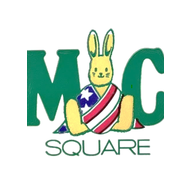
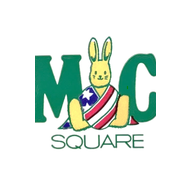
PWA: レビュー対応（遷移のHTMLを保存しない・JS/CSSの事前保存・maskableアイコン縮小など）
- ページ遷移のレスポンスを保存せず、トップページ（/）のHTMLだけをアプリの土台にする
  （レシピ詳細のエッジ関数HTMLが土台になり、オフラインでタイトルがレシピ名になる問題の対策）
- リダイレクトされたレスポンスは保存しない
- asset-manifest.json の JS/CSS をまとめて保存し、未訪問ページのチャンクもオフラインで読めるようにする
- Google Fonts の opaque レスポンスを保存しない
- SW の VERSION を v2 に上げ、使われていない SKIP_WAITING のやり取りを削除
- 片付け用の SW（pwa-killswitch/service-worker.js）を追加
- maskable アイコンのロゴを縮小してセーフゾーン内に収める
- manifest の orientation 指定を削除（タブレット・横向き対応）
- インストール案内はトップページでだけ表示する

Claude-Session: https://claude.ai/code/session_01F58Us6ecbPvqtP8nvLJnsm

Changed region(s): [[0.125, 0.125, 0.875, 0.8125]]

diff --git a/mc-square-react/public/service-worker.js b/mc-square-react/public/service-worker.js
@@ -1,26 +1,94 @@
 /* MC Square Service Worker
- * - ページ遷移: ネットワーク優先、オフライン時はキャッシュ済みのアプリ or offline.html
- * - /static/ (ハッシュ付きビルド成果物): キャッシュ優先
- * - 画像・フォント: stale-while-revalidate
- * - API / Stripe / Firebase などの動的リクエストはキャッシュしない
+ * - ページ遷移: ネットワーク優先。レスポンス自体は保存しない（レシピ詳細はエッジ関数でページごとの HTML になるため）。
+ *   オフライン時は、トップページ（/）から取ったアプリの土台 HTML を表示し、それもなければ offline.html
+ * - /static/ (ハッシュ付きビルド成果物): asset-manifest.json をもとに JS/CSS をまとめて保存し、キャッシュ優先で返す
+ * - 同一オリジンの画像・フォントと Google Fonts: stale-while-revalidate（no-cors の opaque レスポンスは保存しない）
+ * - API / Netlify Functions / Stripe / Firebase などの動的リクエストはキャッシュしない
+ *
+ * このファイルの中身を変えたら、必ず VERSION を上げること（古いキャッシュが消え、新しい SW に切り替わる）。
+ * PWA をやめるときは、このファイルを消すのではなく mc-square-react/pwa-killswitch/service-worker.js で置き換える。
  */
-const VERSION = 'v1';
-const PRECACHE = `mc-precache-${VERSION}`;
-const RUNTIME = `mc-runtime-${VERSION}`;
-const PRECACHE_URLS = ['/', '/index.html', '/offline.html', '/manifest.json', '/logo192.png', '/logo512.png'];
+const VERSION = 'v2';
+const SHELL_CACHE = `mc-shell-${VERSION}`;
+const STATIC_CACHE = `mc-static-${VERSION}`;
+const RUNTIME_CACHE = `mc-runtime-${VERSION}`;
+const SHELL_URL = '/';
+const OFFLINE_URL = '/offline.html';
+const SHELL_EXTRAS = [OFFLINE_URL, '/manifest.json', '/logo192.png', '/logo512.png'];
 const RUNTIME_MAX_ENTRIES = 150;
+const SHELL_REFRESH_INTERVAL_MS = 10 * 60 * 1000;
+const FONT_ORIGINS = ['https://fonts.googleapis.com', 'https://fonts.gstatic.com'];
+
+let lastShellRefresh = 0;
+
+// トップページの HTML をアプリの土台として保存する（リダイレクトされたレスポンスは遷移に使えないので保存しない）
+async function storeShell(response) {
+  if (!response.ok || response.redirected) return false;
+  const cache = await caches.open(SHELL_CACHE);
+  await cache.put(SHELL_URL, response);
+  return true;
+}
+
+// 今のビルドの JS/CSS をすべて保存し、古いビルドのものは削除する
+// → まだ開いていないページのチャンクもオフラインで読み込める
+async function syncStaticAssets() {
+  const response = await fetch('/asset-manifest.json', { cache: 'no-store' });
+  if (!response.ok) return;
+  const manifest = await response.json();
+  const urls = Object.values(manifest.files || {})
+    .filter((path) => typeof path === 'string' && path.startsWith('/static/') && !path.endsWith('.map'));
+  const wanted = new Set(urls.map((path) => new URL(path, self.location.origin).href));
+
+  const cache = await caches.open(STATIC_CACHE);
+  const cachedRequests = await cache.keys();
+  const cachedUrls = new Set(cachedRequests.map((request) => request.url));
+
+  await Promise.all(urls
+    .filter((path) => !cachedUrls.has(new URL(path, self.location.origin).href))
+    .map((path) => cache.add(path).catch(() => undefined)));
+  await Promise.all(cachedRequests
+    .filter((request) => !wanted.has(request.url))
+    .map((request) => cache.delete(request)));
+}
+
+// デプロイで土台 HTML が変わっていたら、保存し直して JS/CSS もそろえる（数分に一度まで）
+async function refreshShell() {
+  const now = Date.now();
+  if (now - lastShellRefresh < SHELL_REFRESH_INTERVAL_MS) return;
+  lastShellRefresh = now;
+  try {
+    const response = await fetch(SHELL_URL, { cache: 'no-cache' });
+    if (!response.ok || response.redirected) return;
+    const cached = await caches.match(SHELL_URL, { cacheName: SHELL_CACHE });
+    const [fresh, old] = await Promise.all([
+      response.clone().text(),
+      cached ? cached.text() : Promise.resolve(null),
+    ]);
+    if (fresh === old) return;
+    await storeShell(response);
+    await syncStaticAssets();
+  } catch (err) {
+    // オフラインなどで失敗しても、次の遷移で再挑戦する
+  }
+}
 
 self.addEventListener('install', (event) => {
-  event.waitUntil(
-    caches.open(PRECACHE).then((cache) => cache.addAll(PRECACHE_URLS)).then(() => self.skipWaiting())
-  );
+  event.waitUntil((async () => {
+    const shellCache = await caches.open(SHELL_CACHE);
+    await shellCache.addAll(SHELL_EXTRAS);
+    await storeShell(await fetch(SHELL_URL, { cache: 'no-cache' }));
+    await syncStaticAssets();
+    lastShellRefresh = Date.now();
+    await self.skipWaiting();
+  })());
 });
 
 self.addEventListener('activate', (event) => {
+  const current = [SHELL_CACHE, STATIC_CACHE, RUNTIME_CACHE];
   event.waitUntil(
     caches.keys()
       .then((keys) => Promise.all(
-        keys.filter((key) => key !== PRECACHE && key !== RUNTIME).map((key) => caches.delete(key))
+        keys.filter((key) => key.startsWith('mc-') && !current.includes(key)).map((key) => caches.delete(key))
       ))
       .then(() => self.clients.claim())
   );
@@ -30,13 +98,13 @@ const isNoCachePath = (url) =>
   url.pathname.startsWith('/api/') ||
   url.pathname.startsWith('/.netlify/') ||
   url.pathname === '/service-worker.js' ||
-  (url.pathname.endsWith('.html') && url.pathname !== '/index.html' && url.pathname !== '/offline.html');
+  url.pathname === '/asset-manifest.json' ||
+  (url.pathname.endsWith('.html') && url.pathname !== OFFLINE_URL);
 
 // 同一オリジンの画像・フォントと Google Fonts のみ（Firebase Storage 等の外部画像は容量節約のため対象外）
 const isCacheableAsset = (url) =>
   (url.origin === self.location.origin && /\.(?:png|jpe?g|gif|webp|svg|ico|woff2?|ttf)$/i.test(url.pathname)) ||
-  url.origin === 'https://fonts.googleapis.com' ||
-  url.origin === 'https://fonts.gstatic.com';
+  FONT_ORIGINS.includes(url.origin);
 
 async function trimCache(cacheName, maxEntries) {
   const cache = await caches.open(cacheName);
@@ -46,16 +114,22 @@ async function trimCache(cacheName, maxEntries) {
   }
 }
 
-async function networkFirstNavigation(request) {
+async function handleNavigation(event) {
+  const url = new URL(event.request.url);
   try {
-    const response = await fetch(request);
-    if (response.ok) {
-      const cache = await caches.open(PRECACHE);
-      cache.put('/index.html', response.clone());
+    const response = await fetch(event.request);
+    if (url.pathname === SHELL_URL) {
+      if (response.ok && !response.redirected) {
+        lastShellRefresh = Date.now();
+        event.waitUntil(storeShell(response.clone()).then(syncStaticAssets).catch(() => undefined));
+      }
+    } else {
+      event.waitUntil(refreshShell());
     }
     return response;
   } catch (err) {
-    return (await caches.match('/index.html')) || (await caches.match('/offline.html'));
+    return (await caches.match(SHELL_URL, { cacheName: SHELL_CACHE })) ||
+      (await caches.match(OFFLINE_URL, { cacheName: SHELL_CACHE }));
   }
 }
 
@@ -64,26 +138,31 @@ async function cacheFirst(request) {
   if (cached) return cached;
   const response = await fetch(request);
   if (response.ok) {
-    const cache = await caches.open(RUNTIME);
+    const cache = await caches.open(STATIC_CACHE);
     cache.put(request, response.clone());
-    trimCache(RUNTIME, RUNTIME_MAX_ENTRIES);
   }
   return response;
 }
 
-async function staleWhileRevalidate(request) {
-  const cache = await caches.open(RUNTIME);
+async function staleWhileRevalidate(event) {
+  const { request } = event;
+  const cache = await caches.open(RUNTIME_CACHE);
   const cached = await cache.match(request);
   const network = fetch(request)
-    .then((response) => {
-      if (response.ok || response.type === 'opaque') {
-        cache.put(request, response.clone());
-        trimCache(RUNTIME, RUNTIME_MAX_ENTRIES);
+    .then(async (response) => {
+      // opaque（no-cors）レスポンスは中身が見えないうえ容量を多く使うので保存しない
+      if (response.ok) {
+        await cache.put(request, response.clone());
+        await trimCache(RUNTIME_CACHE, RUNTIME_MAX_ENTRIES);
       }
       return response;
     })
     .catch(() => cached);
-  return cached || network;
+  if (cached) {
+    event.waitUntil(network);
+    return cached;
+  }
+  return network;
 }
 
 self.addEventListener('fetch', (event) => {
@@ -91,27 +170,21 @@ self.addEventListener('fetch', (event) => {
   if (request.method !== 'GET') return;
 
   const url = new URL(request.url);
+  const sameOrigin = url.origin === self.location.origin;
 
-  // 同一オリジンのページ遷移（SPA）
-  if (request.mode === 'navigate' && url.origin === self.location.origin) {
-    if (isNoCachePath(url)) return;
-    event.respondWith(networkFirstNavigation(request));
+  if (sameOrigin && isNoCachePath(url)) return;
+
+  if (request.mode === 'navigate' && sameOrigin) {
+    event.respondWith(handleNavigation(event));
     return;
   }
 
-  if (url.origin === self.location.origin) {
-    if (isNoCachePath(url)) return;
-    if (url.pathname.startsWith('/static/')) {
-      event.respondWith(cacheFirst(request));
-      return;
-    }
+  if (sameOrigin && url.pathname.startsWith('/static/')) {
+    event.respondWith(cacheFirst(request));
+    return;
   }
 
   if (isCacheableAsset(url)) {
-    event.respondWith(staleWhileRevalidate(request));
+    event.respondWith(staleWhileRevalidate(event));
   }
-});
-
-self.addEventListener('message', (event) => {
-  if (event.data && event.data.type === 'SKIP_WAITING') self.skipWaiting();
 });

diff --git a/mc-square-react/src/pwa/InstallPrompt.tsx b/mc-square-react/src/pwa/InstallPrompt.tsx
@@ -1,4 +1,5 @@
 import React, { useEffect, useState } from 'react';
+import { useLocation } from 'react-router-dom';
 import './InstallPrompt.css';
 
 // Chrome / Edge / Android の beforeinstallprompt イベント
@@ -28,7 +29,10 @@ const recentlyDismissed = () => {
 };
 
 // ホーム画面への追加を案内するバナー
+// 購入ボタンなどに重ならないよう、トップページでだけ表示する
 const InstallPrompt: React.FC = () => {
+  const { pathname } = useLocation();
+  const isTopPage = pathname === '/';
   const [deferredPrompt, setDeferredPrompt] = useState<BeforeInstallPromptEvent | null>(null);
   const [showIosGuide, setShowIosGuide] = useState(false);
   const [visible, setVisible] = useState(false);
@@ -49,21 +53,21 @@ const InstallPrompt: React.FC = () => {
     window.addEventListener('beforeinstallprompt', handleBeforeInstall);
     window.addEventListener('appinstalled', handleInstalled);
 
-    // iOS Safari は beforeinstallprompt が無いため、共有メニューからの追加方法を案内する
-    let timer: ReturnType<typeof setTimeout> | undefined;
-    if (isIos()) {
-      timer = setTimeout(() => {
-        setShowIosGuide(true);
-        setVisible(true);
-      }, 3000);
-    }
-
     return () => {
       window.removeEventListener('beforeinstallprompt', handleBeforeInstall);
       window.removeEventListener('appinstalled', handleInstalled);
-      if (timer) clearTimeout(timer);
     };
   }, []);
+
+  // iOS Safari は beforeinstallprompt が無いため、トップページを開いて少ししたら共有メニューからの追加方法を案内する
+  useEffect(() => {
+    if (!isTopPage || showIosGuide || !isIos() || isStandalone() || recentlyDismissed()) return;
+    const timer = setTimeout(() => {
+      setShowIosGuide(true);
+      setVisible(true);
+    }, 3000);
+    return () => clearTimeout(timer);
+  }, [isTopPage, showIosGuide]);
 
   const dismiss = () => {
     setVisible(false);
@@ -86,7 +90,7 @@ const InstallPrompt: React.FC = () => {
     }
   };
 
-  if (!visible) return null;
+  if (!visible || !isTopPage) return null;
 
   return (
     <div className="pwa-install" role="dialog" aria-label="ホーム画面に追加">

diff --git a/mc-square-react/pwa-killswitch/service-worker.js b/mc-square-react/pwa-killswitch/service-worker.js
@@ -1,0 +1,20 @@
+/* MC Square Service Worker 片付け用（kill switch）
+ *
+ * PWA をやめるとき・Service Worker に問題が起きたときの緊急用です。
+ * 使い方: このファイルで mc-square-react/public/service-worker.js を置き換えてデプロイする。
+ *   - 登録済みの Service Worker を解除し、MC Square が作ったキャッシュをすべて削除します
+ *   - 開いているページは一度だけ再読み込みされ、以降は通常のサイトとして動きます
+ *   - あわせて src/index.tsx の registerServiceWorker() 呼び出しを外してください
+ * 置き換えたあとも、利用者のスマホから古い SW が消えるまで（数週間程度）はこのファイルを残しておくこと。
+ */
+self.addEventListener('install', () => self.skipWaiting());
+
+self.addEventListener('activate', (event) => {
+  event.waitUntil((async () => {
+    const keys = await caches.keys();
+    await Promise.all(keys.filter((key) => key.startsWith('mc-')).map((key) => caches.delete(key)));
+    await self.registration.unregister();
+    const clients = await self.clients.matchAll({ type: 'window' });
+    clients.forEach((client) => client.navigate(client.url));
+  })());
+});

diff --git a/mc-square-react/src/pwa/registerServiceWorker.ts b/mc-square-react/src/pwa/registerServiceWorker.ts
@@ -1,25 +1,13 @@
 // Service Worker の登録（本番ビルドのみ）
-// 新しいバージョンが待機状態になったら、次回の遷移で自動的に切り替える
+// 新しい SW はインストール後すぐに有効になる（service-worker.js 側で skipWaiting している）
 export function registerServiceWorker() {
   if (process.env.NODE_ENV !== 'production' || !('serviceWorker' in navigator)) {
     return;
   }
 
   window.addEventListener('load', () => {
-    const swUrl = `${process.env.PUBLIC_URL}/service-worker.js`;
     navigator.serviceWorker
-      .register(swUrl)
-      .then((registration) => {
-        registration.addEventListener('updatefound', () => {
-          const installing = registration.installing;
-          if (!installing) return;
-          installing.addEventListener('statechange', () => {
-            if (installing.state === 'installed' && navigator.serviceWorker.controller) {
-              installing.postMessage({ type: 'SKIP_WAITING' });
-            }
-          });
-        });
-      })
+      .register(`${process.env.PUBLIC_URL}/service-worker.js`)
       .catch((error) => {
         console.error('Service Worker の登録に失敗しました:', error);
       });

diff --git a/mc-square-react/src/App.tsx b/mc-square-react/src/App.tsx
@@ -8,6 +8,7 @@ import { CartProvider } from './ec/context/CartContext';
 import { useEffect, useState } from 'react';
 import RecipeStrip from './shared/components/RecipeStrip';
 import ImageSlider from './ec/components/ImageSlider';
+import InstallPrompt from './pwa/InstallPrompt';
 
 
 // 各ページは開いたときだけ読み込む（トップページの初回表示を軽くする）
@@ -190,6 +191,7 @@ const AppLayout: React.FC = () => {
       </Routes>
       </Suspense>
       <Footer />
+      <InstallPrompt />
     </>
   );
 };

diff --git a/mc-square-react/src/index.tsx b/mc-square-react/src/index.tsx
@@ -2,7 +2,6 @@ import React from 'react';
 import ReactDOM from 'react-dom/client';
 import './index.css';
 import App from './App';
-import InstallPrompt from './pwa/InstallPrompt';
 import { registerServiceWorker } from './pwa/registerServiceWorker';
 
 const root = ReactDOM.createRoot(
@@ -11,7 +10,6 @@ const root = ReactDOM.createRoot(
 root.render(
   <React.StrictMode>
     <App />
-    <InstallPrompt />
   </React.StrictMode>
 );
 
